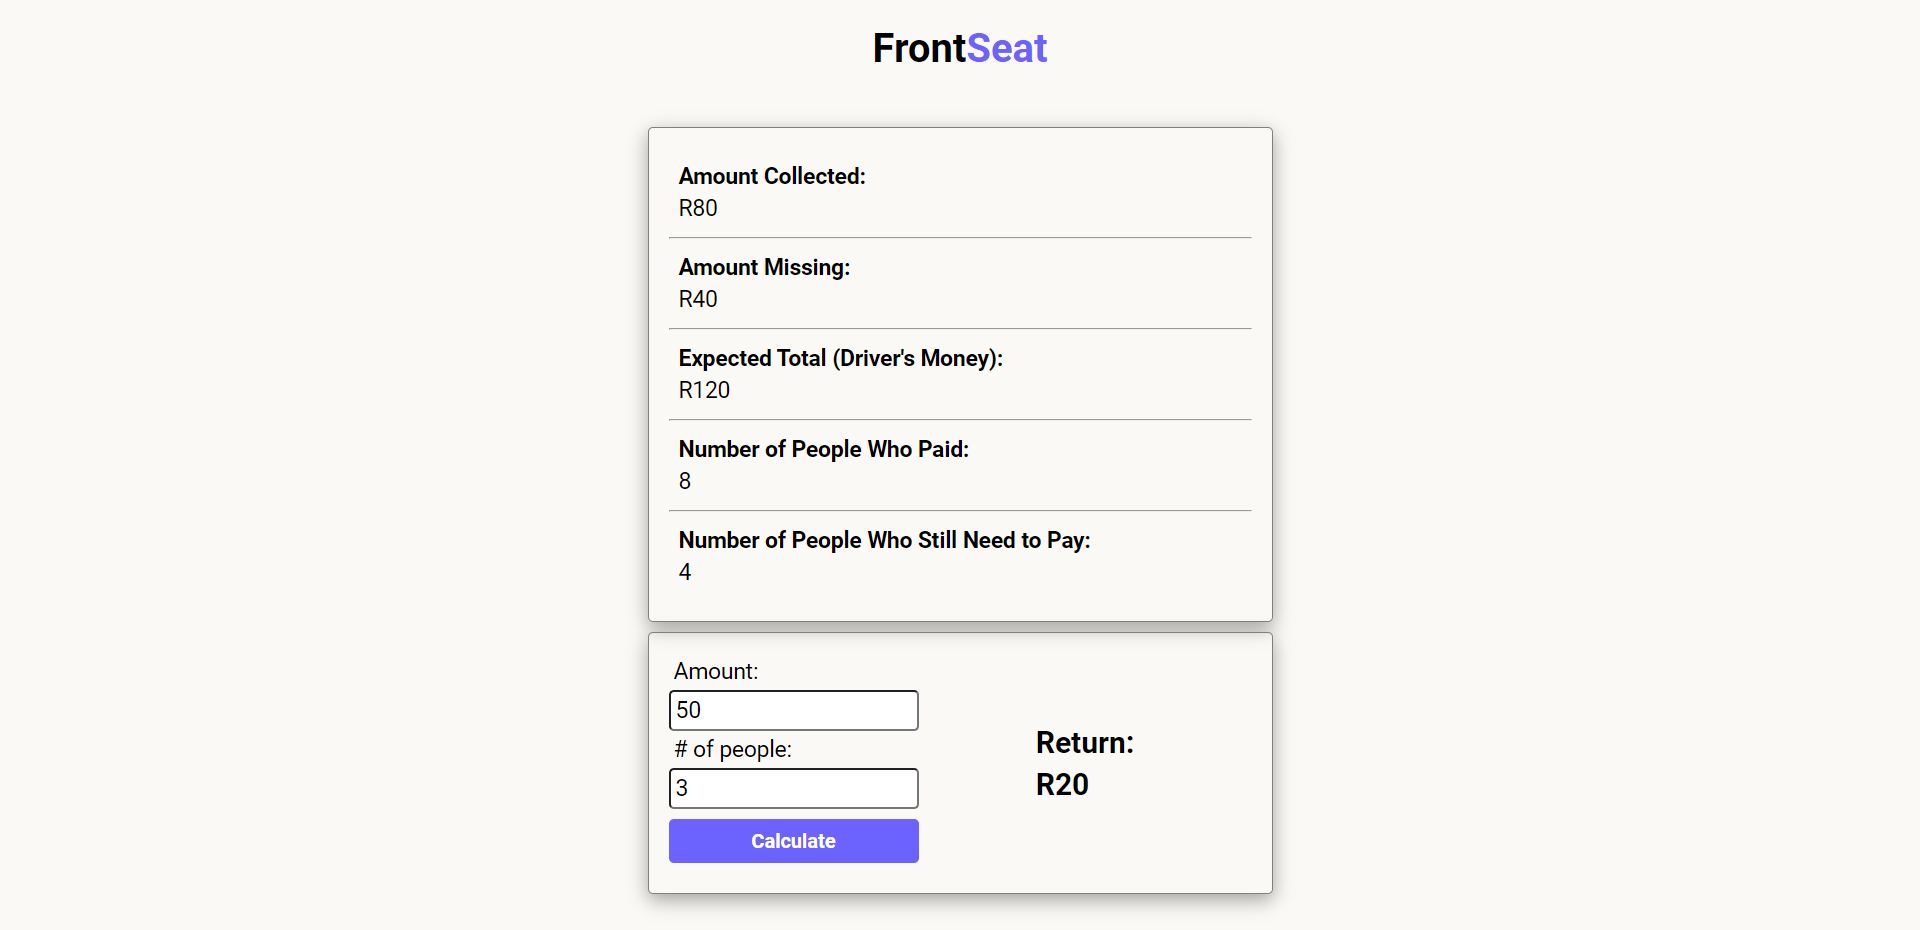
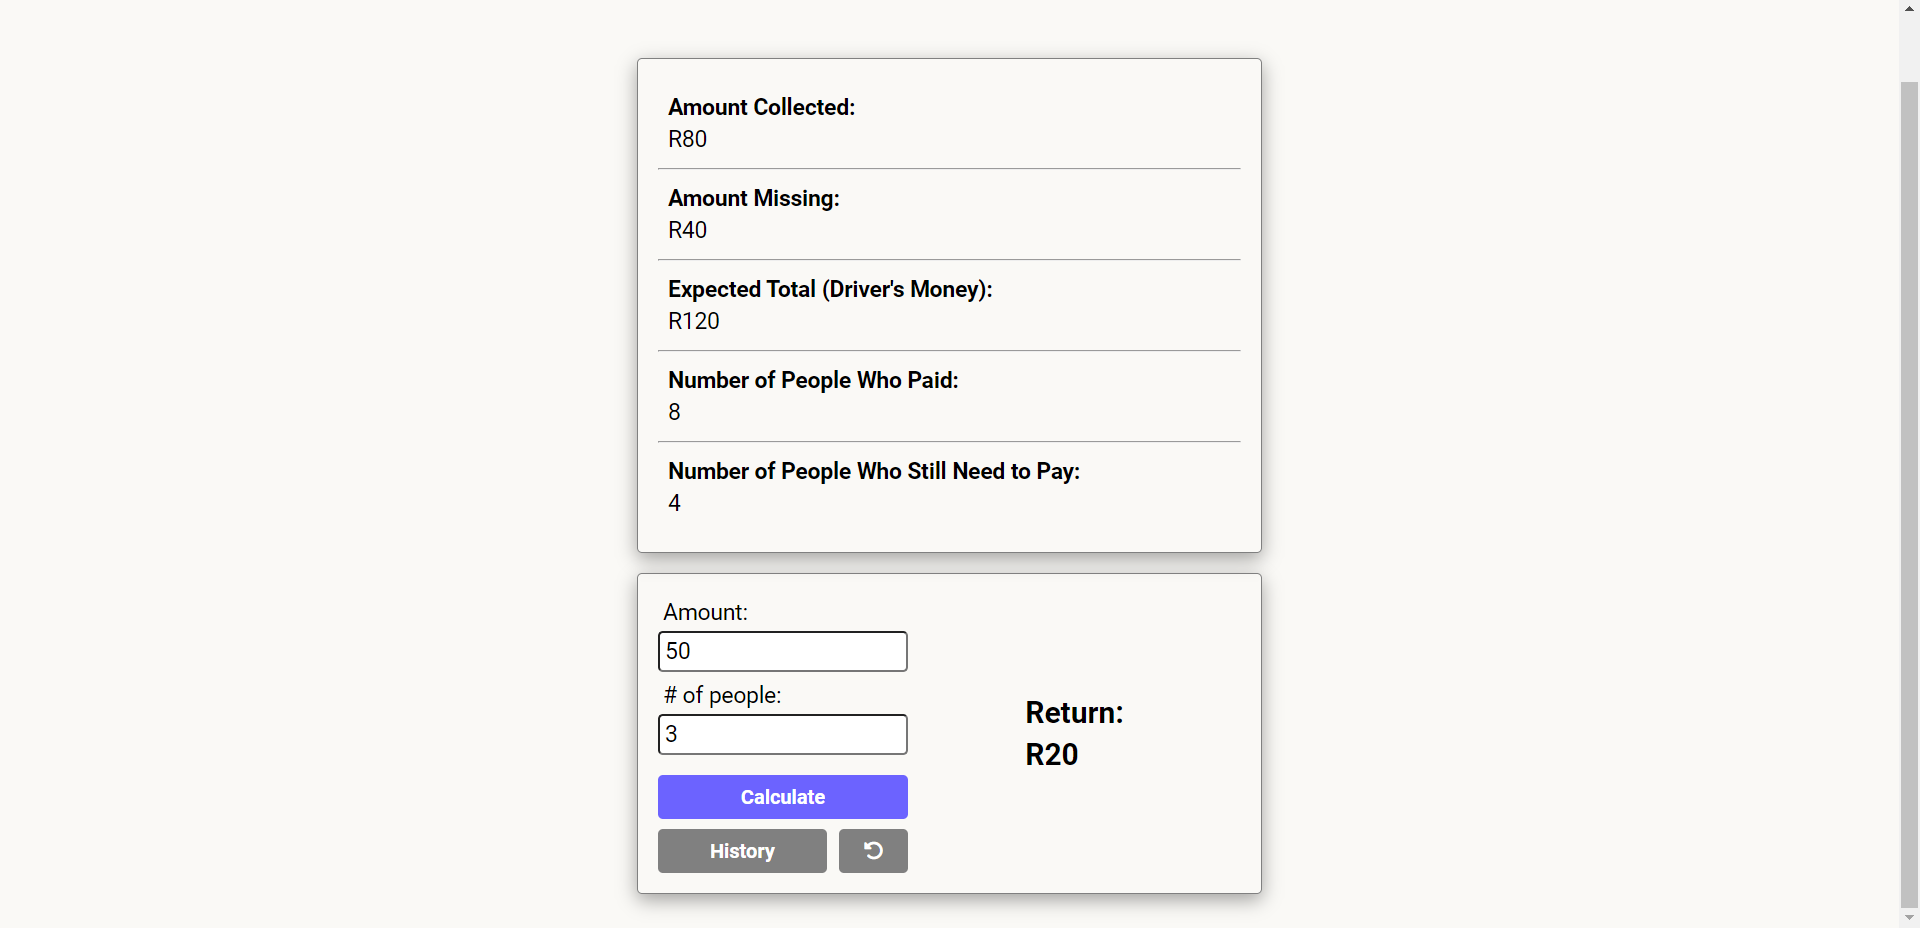
Added history and undo features, updated screenshots as well

diff --git a/scripts.js b/scripts.js
@@ -14,6 +14,7 @@ const calculateBtn = document.getElementById("btn__calculate");
 const returnElements = document.querySelectorAll(".return");
 const calculationsAlert = document.getElementById("calculations__alert");
 const historyBtns = document.querySelectorAll(".btn__history");
+const undoBtn = document.getElementById("btn__undo");
 
 // JOB DONE SECTION VARIABLE
 const jobDoneSection = document.getElementById("job-done");
@@ -32,7 +33,7 @@ const peopleStillToPay = document.querySelector(
 const historySection = document.getElementById("history");
 const historyList = document.getElementById("list");
 
-// Functions
+// FUNCTIONS
 const isValidTrip = (taxiFare, numOfPassengers) =>
         taxiFare && numOfPassengers ? true : false;
 
@@ -53,7 +54,39 @@ const updateHistory = () => {
                 html += `<li>${ele}</li>`;
         });
 
-        historyList.innerHTML = html;
+        historyData
+                ? (historyList.innerHTML = html)
+                : (historyList.innerHTML = "<p>No History</p>");
+};
+
+const renderStats = () => {
+        // Amount collected from passengers
+        amountCollected.textContent = `R${
+                calculatedData.collectedData[
+                        calculatedData.collectedData.length - 1
+                ]
+        }`;
+
+        // Amount still needed to be collected from passengers
+        amountMissing.innerText = `R${
+                calculatedData.missingData[
+                        calculatedData.missingData.length - 1
+                ]
+        }`;
+
+        // Number of people who have paid
+        peopleWhoPaid.innerText = `${
+                calculatedData.numOfPeoplePaidData[
+                        calculatedData.numOfPeoplePaidData.length - 1
+                ]
+        }`;
+
+        // Number of people who haven't paid
+        peopleStillToPay.innerText = `${
+                calculatedData.needToPayData[
+                        calculatedData.needToPayData.length - 1
+                ]
+        }`;
 };
 // Event Listeners
 startTripBtn.addEventListener("click", () => {
@@ -76,11 +109,16 @@ startTripBtn.addEventListener("click", () => {
         }
 });
 
-let collected = 0;
-let missing = 0;
-let numOfPeoplePaid = 0;
-let needToPay = 0;
 let historyData = [];
+
+let calculatedData = {
+        collectedData: [0],
+        missingData: [0],
+        numOfPeoplePaidData: [0],
+        needToPayData: [0],
+};
+
+let calculateCount = 0;
 
 calculateBtn.addEventListener("click", () => {
         const amount = parseFloat(amountEle.value);
@@ -89,23 +127,47 @@ calculateBtn.addEventListener("click", () => {
         const numOfPassengers = parseInt(numOfPassengersEle.value);
         const returnAmount = amount - numberOfPeople * taxiFare;
 
+        // Check if the amount is enough to cover the number of people
         if (amount >= numberOfPeople * taxiFare) {
-                const expected = taxiFare * numOfPassengers;
+                let expected = taxiFare * numOfPassengers;
+                calculateCount += 1;
+
+                // Updates return values for both return elements
                 returnElements.forEach(
                         (ele) => (ele.innerText = `R${returnAmount}`)
                 );
 
+                // Calculate amount collected from passengers
+                collected =
+                        calculatedData.collectedData[
+                                calculatedData.collectedData.length - 1
+                        ];
                 collected += amount - returnAmount;
-                amountCollected.textContent = `R${collected}`;
+                calculatedData.collectedData.push(collected);
 
+                // Calculate amount still needed to be collected from passengers
+                missing =
+                        calculatedData.missingData[
+                                calculatedData.missingData.length - 1
+                        ];
                 missing = expected - collected;
-                amountMissing.innerText = `R${missing}`;
+                calculatedData.missingData.push(missing);
 
+                // Calculate number of people who still need to pay
+                numOfPeoplePaid =
+                        calculatedData.numOfPeoplePaidData[
+                                calculatedData.numOfPeoplePaidData.length - 1
+                        ];
                 numOfPeoplePaid += (amount - returnAmount) / taxiFare;
-                peopleWhoPaid.innerText = `${numOfPeoplePaid}`;
+                calculatedData.numOfPeoplePaidData.push(numOfPeoplePaid);
 
+                // Calculate number of people who haven't paid
+                needToPay =
+                        calculatedData.needToPayData[
+                                calculatedData.needToPayData.length - 1
+                        ];
                 needToPay = (expected - collected) / taxiFare;
-                peopleStillToPay.innerText = `${needToPay}`;
+                calculatedData.needToPayData.push(needToPay);
 
                 calculationsAlert.classList.add("hidden");
 
@@ -115,9 +177,9 @@ calculateBtn.addEventListener("click", () => {
                         returnAmount,
                         historyData
                 );
-
-                console.log(historyData);
-
+                updateHistory();
+                renderStats();
+                // Checks if job is completed
                 if (collected === expected && needToPay === 0) {
                         jobDoneSection.classList.remove("hidden");
                         calculationsSection.classList.add("hidden");
@@ -133,8 +195,20 @@ historyBtns.forEach((button) => {
                 historySection.classList.toggle("hidden")
         );
 });
-// historyBtn.addEventListener("click", () => {
-//         historySection.classList.toggle("hidden");
-// });
 
-setInterval(updateHistory, 1000);
+undoBtn.addEventListener("click", () => {
+        const keys = Object.keys(calculatedData);
+
+        if (calculateCount > 0) {
+                console.log(`calculateCount is ${calculateCount}`);
+                console.log("\nThis if statement inside undo ran\n");
+                keys.forEach((ele) => calculatedData[ele].pop());
+                historyData.pop();
+                updateHistory();
+                renderStats();
+                calculateCount -= 1;
+        }
+});
+
+// setInterval(updateHistory, 1000);
+// setInterval(renderStats, 1000);

diff --git a/index.html b/index.html
@@ -9,6 +9,10 @@
                 <title>FrontSeat</title>
                 <link rel="stylesheet" href="./styles.css" />
                 <script src="./scripts.js" defer></script>
+                <script
+                        src="https://kit.fontawesome.com/84325e05c5.js"
+                        crossorigin="anonymous"
+                ></script>
         </head>
         <body>
                 <h1>Front<span class="feature-color">Seat</span></h1>
@@ -127,9 +131,21 @@
                                                 <button id="btn__calculate">
                                                         Calculate
                                                 </button>
-                                                <button class="btn__history">
-                                                        History
-                                                </button>
+                                                <div class="feature-btns">
+                                                        <button
+                                                                class="btn__history"
+                                                        >
+                                                                History
+                                                        </button>
+                                                        <button id="btn__undo">
+                                                                <i
+                                                                        class="fa-solid fa-rotate-left"
+                                                                        style="
+                                                                                color: #ffffff;
+                                                                        "
+                                                                ></i>
+                                                        </button>
+                                                </div>
                                         </div>
                                         <div class="calculations__right-column">
                                                 <div>

diff --git a/styles.css b/styles.css
@@ -83,6 +83,7 @@ input {
         width: 100%;
         max-width: 200px;
         padding: 4px;
+        margin-bottom: 8px;
 }
 
 input:hover {
@@ -97,7 +98,7 @@ button {
         width: 100%;
         max-width: 200px;
         padding: 8px;
-        margin: 8px 0;
+        margin-top: 8px;
         border-radius: 4px;
         font-size: 16px;
         font-weight: bold;
@@ -108,6 +109,7 @@ button {
 
 button:hover {
         cursor: pointer;
+        transform: scale(1.05);
 }
 
 .hidden {
@@ -157,7 +159,21 @@ button:hover {
         font-size: 24px;
 }
 
-.btn__history {
+.feature-btns {
+        display: flex;
+        justify-content: space-between;
+}
+
+.feature-btns .btn__history {
+        width: 67.5%;
+}
+
+.feature-btns #btn__undo {
+        width: 27.5%;
+}
+
+.btn__history,
+#btn__undo {
         background-color: gray;
 }
 

diff --git a/README.md b/README.md
@@ -10,6 +10,8 @@ FrontSeat is a simple web app designed to assist in collecting and managing mini
 - Calculate the expected total (driver's money).
 - Keep count of the number of people who have paid and those who still need to pay.
 - Easily reset for a new trip by refreshing the page.
+- View a history of calculations for the current trip.
+- Undo previous calculations in case of errors.
 
 ## Usage
 
@@ -18,7 +20,9 @@ FrontSeat is a simple web app designed to assist in collecting and managing mini
 3. Click the "Start Trip" button.
 4. In the "Calculations" section, input the amount paid by passengers and the number of people paying.
 5. Click the "Calculate" button to see the change, update the amounts, and keep track of payments.
-6. When the collected amount equals the expected total, and no one needs to pay, you'll see a "Job Well Done" message.
+6. Use the "History" button to view a history of calculations for the current trip.
+7. If you make a mistake, you can use the "Undo" button to revert previous calculations.
+8. When the collected amount equals the expected total, and no one needs to pay, you'll see a "Job Well Done" message.
 
 ## Screenshots
 
